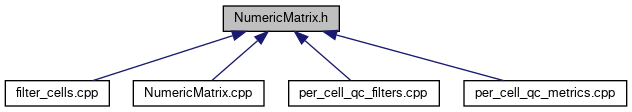
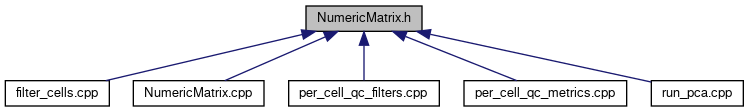
Deploying to gh-pages from @ jkanche/scran.js@d11298bfd3dacabcd8b2142fea2357774d24ed31 🚀

diff --git a/docs/wasm/run__pca_8cpp.html b/docs/wasm/run__pca_8cpp.html
@@ -1,0 +1,168 @@
+<!DOCTYPE html PUBLIC "-//W3C//DTD XHTML 1.0 Transitional//EN" "https://www.w3.org/TR/xhtml1/DTD/xhtml1-transitional.dtd">
+<html xmlns="http://www.w3.org/1999/xhtml">
+<head>
+<meta http-equiv="Content-Type" content="text/xhtml;charset=UTF-8"/>
+<meta http-equiv="X-UA-Compatible" content="IE=9"/>
+<meta name="generator" content="Doxygen 1.9.1"/>
+<meta name="viewport" content="width=device-width, initial-scale=1"/>
+<title>scran.js: run_pca.cpp File Reference</title>
+<link href="tabs.css" rel="stylesheet" type="text/css"/>
+<script type="text/javascript" src="jquery.js"></script>
+<script type="text/javascript" src="dynsections.js"></script>
+<link href="search/search.css" rel="stylesheet" type="text/css"/>
+<script type="text/javascript" src="search/searchdata.js"></script>
+<script type="text/javascript" src="search/search.js"></script>
+<link href="doxygen.css" rel="stylesheet" type="text/css" />
+<link href="doxygen-awesome.css" rel="stylesheet" type="text/css"/>
+</head>
+<body>
+<div id="top"><!-- do not remove this div, it is closed by doxygen! -->
+<div id="titlearea">
+<table cellspacing="0" cellpadding="0">
+ <tbody>
+ <tr style="height: 56px;">
+  <td id="projectalign" style="padding-left: 0.5em;">
+   <div id="projectname">scran.js
+   </div>
+   <div id="projectbrief">Compiling scran&#39;s C++ library to WebAssembly</div>
+  </td>
+ </tr>
+ </tbody>
+</table>
+</div>
+<!-- end header part -->
+<!-- Generated by Doxygen 1.9.1 -->
+<script type="text/javascript">
+/* @license magnet:?xt=urn:btih:cf05388f2679ee054f2beb29a391d25f4e673ac3&amp;dn=gpl-2.0.txt GPL-v2 */
+var searchBox = new SearchBox("searchBox", "search",false,'Search','.html');
+/* @license-end */
+</script>
+<script type="text/javascript" src="menudata.js"></script>
+<script type="text/javascript" src="menu.js"></script>
+<script type="text/javascript">
+/* @license magnet:?xt=urn:btih:cf05388f2679ee054f2beb29a391d25f4e673ac3&amp;dn=gpl-2.0.txt GPL-v2 */
+$(function() {
+  initMenu('',true,false,'search.php','Search');
+  $(document).ready(function() { init_search(); });
+});
+/* @license-end */</script>
+<div id="main-nav"></div>
+<!-- window showing the filter options -->
+<div id="MSearchSelectWindow"
+     onmouseover="return searchBox.OnSearchSelectShow()"
+     onmouseout="return searchBox.OnSearchSelectHide()"
+     onkeydown="return searchBox.OnSearchSelectKey(event)">
+</div>
+
+<!-- iframe showing the search results (closed by default) -->
+<div id="MSearchResultsWindow">
+<iframe src="javascript:void(0)" frameborder="0" 
+        name="MSearchResults" id="MSearchResults">
+</iframe>
+</div>
+
+</div><!-- top -->
+<div class="header">
+  <div class="summary">
+<a href="#func-members">Functions</a>  </div>
+  <div class="headertitle">
+<div class="title">run_pca.cpp File Reference</div>  </div>
+</div><!--header-->
+<div class="contents">
+<div class="textblock"><code>#include &lt;emscripten/bind.h&gt;</code><br />
+<code>#include &quot;<a class="el" href="NumericMatrix_8h_source.html">NumericMatrix.h</a>&quot;</code><br />
+<code>#include &quot;irlba/irlba.hpp&quot;</code><br />
+<code>#include &quot;tatami/stats/variances.hpp&quot;</code><br />
+<code>#include &quot;Eigen/Sparse&quot;</code><br />
+<code>#include &lt;vector&gt;</code><br />
+<code>#include &lt;cmath&gt;</code><br />
+</div><div class="textblock"><div class="dynheader">
+Include dependency graph for run_pca.cpp:</div>
+<div class="dyncontent">
+<div class="center"><img src="run__pca_8cpp__incl.png" border="0" usemap="#arun__pca_8cpp" alt=""/></div>
+<map name="arun__pca_8cpp" id="arun__pca_8cpp">
+<area shape="rect" title=" " alt="" coords="459,5,551,32"/>
+<area shape="rect" title=" " alt="" coords="5,80,129,107"/>
+<area shape="rect" href="NumericMatrix_8h.html" title=" " alt="" coords="153,80,269,107"/>
+<area shape="rect" title=" " alt="" coords="294,80,393,107"/>
+<area shape="rect" title=" " alt="" coords="417,80,592,107"/>
+<area shape="rect" title=" " alt="" coords="617,80,715,107"/>
+<area shape="rect" title=" " alt="" coords="739,80,798,107"/>
+<area shape="rect" title=" " alt="" coords="822,80,881,107"/>
+<area shape="rect" href="JSVector_8h.html" title=" " alt="" coords="107,155,193,181"/>
+<area shape="rect" title=" " alt="" coords="217,155,325,181"/>
+<area shape="rect" title=" " alt="" coords="117,229,183,256"/>
+</map>
+</div>
+</div><table class="memberdecls">
+<tr class="heading"><td colspan="2"><h2 class="groupheader"><a name="func-members"></a>
+Functions</h2></td></tr>
+<tr class="memitem:ab0d3c9409f62cec7e18cd573ed74087d"><td class="memItemLeft" align="right" valign="top">void&#160;</td><td class="memItemRight" valign="bottom"><a class="el" href="run__pca_8cpp.html#ab0d3c9409f62cec7e18cd573ed74087d">run_pca</a> (const <a class="el" href="structNumericMatrix.html">NumericMatrix</a> &amp;mat, int number, bool scale, uintptr_t pcs, uintptr_t prop_var)</td></tr>
+<tr class="separator:ab0d3c9409f62cec7e18cd573ed74087d"><td class="memSeparator" colspan="2">&#160;</td></tr>
+</table>
+<h2 class="groupheader">Function Documentation</h2>
+<a id="ab0d3c9409f62cec7e18cd573ed74087d"></a>
+<h2 class="memtitle"><span class="permalink"><a href="#ab0d3c9409f62cec7e18cd573ed74087d">&#9670;&nbsp;</a></span>run_pca()</h2>
+
+<div class="memitem">
+<div class="memproto">
+      <table class="memname">
+        <tr>
+          <td class="memname">void run_pca </td>
+          <td>(</td>
+          <td class="paramtype">const <a class="el" href="structNumericMatrix.html">NumericMatrix</a> &amp;&#160;</td>
+          <td class="paramname"><em>mat</em>, </td>
+        </tr>
+        <tr>
+          <td class="paramkey"></td>
+          <td></td>
+          <td class="paramtype">int&#160;</td>
+          <td class="paramname"><em>number</em>, </td>
+        </tr>
+        <tr>
+          <td class="paramkey"></td>
+          <td></td>
+          <td class="paramtype">bool&#160;</td>
+          <td class="paramname"><em>scale</em>, </td>
+        </tr>
+        <tr>
+          <td class="paramkey"></td>
+          <td></td>
+          <td class="paramtype">uintptr_t&#160;</td>
+          <td class="paramname"><em>pcs</em>, </td>
+        </tr>
+        <tr>
+          <td class="paramkey"></td>
+          <td></td>
+          <td class="paramtype">uintptr_t&#160;</td>
+          <td class="paramname"><em>prop_var</em>&#160;</td>
+        </tr>
+        <tr>
+          <td></td>
+          <td>)</td>
+          <td></td><td></td>
+        </tr>
+      </table>
+</div><div class="memdoc">
+<p>Perform a principal components analysis to obtain per-cell coordinates in low-dimensional space.</p>
+<dl class="params"><dt>Parameters</dt><dd>
+  <table class="params">
+    <tr><td class="paramname">mat</td><td>The input log-expression matrix, with features in rows and cells in columns. </td></tr>
+    <tr><td class="paramname">number</td><td>Number of PCs to obtain. Must be less than the smaller dimension of <code>mat</code>. </td></tr>
+    <tr><td class="paramname">scale</td><td>Whether to standardize rows in <code>mat</code> to unit variance. If <code>true</code>, all rows in <code>mat</code> are assumed to have non-zero variance. </td></tr>
+    <tr><td class="paramname">pcs</td><td>Offset to an output array of <code>double</code>s of length <code>number * mat.ncol()</code>. </td></tr>
+    <tr><td class="paramname">prop_var</td><td>Offset to an output array of <code>double</code>s of length <code>number</code>.</td></tr>
+  </table>
+  </dd>
+</dl>
+<dl class="section return"><dt>Returns</dt><dd><code>pcs</code> is filled with the PC coordinates in a column-major manner. <code>prop_var</code> is filled with the percentage of variance explained by each successive PC. </dd></dl>
+
+</div>
+</div>
+</div><!-- contents -->
+<!-- start footer part -->
+<hr class="footer"/><address class="footer"><small>
+Generated by&#160;<a href="https://www.doxygen.org/index.html"><img class="footer" src="doxygen.svg" width="104" height="31" alt="doxygen"/></a> 1.9.1
+</small></address>
+</body>
+</html>

diff --git a/docs/wasm/files.html b/docs/wasm/files.html
@@ -75,7 +75,8 @@ $(function() {
 <tr id="row_3_"><td class="entry"><span style="width:16px;display:inline-block;">&#160;</span><a href="NumericMatrix_8h_source.html"><span class="icondoc"></span></a><a class="el" href="NumericMatrix_8h.html" target="_self">NumericMatrix.h</a></td><td class="desc"></td></tr>
 <tr id="row_4_" class="even"><td class="entry"><span style="width:16px;display:inline-block;">&#160;</span><span class="icondoc"></span><a class="el" href="per__cell__qc__filters_8cpp.html" target="_self">per_cell_qc_filters.cpp</a></td><td class="desc"></td></tr>
 <tr id="row_5_"><td class="entry"><span style="width:16px;display:inline-block;">&#160;</span><span class="icondoc"></span><a class="el" href="per__cell__qc__metrics_8cpp.html" target="_self">per_cell_qc_metrics.cpp</a></td><td class="desc"></td></tr>
-<tr id="row_6_" class="even"><td class="entry"><span style="width:16px;display:inline-block;">&#160;</span><a href="utils_8h_source.html"><span class="icondoc"></span></a><a class="el" href="utils_8h.html" target="_self">utils.h</a></td><td class="desc"></td></tr>
+<tr id="row_6_" class="even"><td class="entry"><span style="width:16px;display:inline-block;">&#160;</span><span class="icondoc"></span><a class="el" href="run__pca_8cpp.html" target="_self">run_pca.cpp</a></td><td class="desc"></td></tr>
+<tr id="row_7_"><td class="entry"><span style="width:16px;display:inline-block;">&#160;</span><a href="utils_8h_source.html"><span class="icondoc"></span></a><a class="el" href="utils_8h.html" target="_self">utils.h</a></td><td class="desc"></td></tr>
 </table>
 </div><!-- directory -->
 </div><!-- contents -->

diff --git a/docs/wasm/search/functions_6.js b/docs/wasm/search/functions_6.js
@@ -1,6 +1,6 @@
 var searchData=
 [
-  ['ncol_41',['ncol',['../structNumericMatrix.html#ad21bf001b87002dcb346d9fcdd4e8a60',1,'NumericMatrix']]],
-  ['nrow_42',['nrow',['../structNumericMatrix.html#aca9949603c5969178a3d43eb1a352f63',1,'NumericMatrix']]],
-  ['numericmatrix_43',['NumericMatrix',['../structNumericMatrix.html#a66a4590191812cc5aaadb1f226023b08',1,'NumericMatrix::NumericMatrix(const tatami::numeric_matrix *p)'],['../structNumericMatrix.html#a06927edd7002205d6f5385971b404d13',1,'NumericMatrix::NumericMatrix(std::shared_ptr&lt; const tatami::numeric_matrix &gt; p)'],['../structNumericMatrix.html#af316832630f2a6bd5bd815ffce78018c',1,'NumericMatrix::NumericMatrix(int nr, int nc, uintptr_t values)']]]
+  ['ncol_44',['ncol',['../structNumericMatrix.html#ad21bf001b87002dcb346d9fcdd4e8a60',1,'NumericMatrix']]],
+  ['nrow_45',['nrow',['../structNumericMatrix.html#aca9949603c5969178a3d43eb1a352f63',1,'NumericMatrix']]],
+  ['numericmatrix_46',['NumericMatrix',['../structNumericMatrix.html#a66a4590191812cc5aaadb1f226023b08',1,'NumericMatrix::NumericMatrix(const tatami::numeric_matrix *p)'],['../structNumericMatrix.html#a06927edd7002205d6f5385971b404d13',1,'NumericMatrix::NumericMatrix(std::shared_ptr&lt; const tatami::numeric_matrix &gt; p)'],['../structNumericMatrix.html#af316832630f2a6bd5bd815ffce78018c',1,'NumericMatrix::NumericMatrix(int nr, int nc, uintptr_t values)']]]
 ];

diff --git a/docs/wasm/JSVector_8h.html b/docs/wasm/JSVector_8h.html
@@ -84,12 +84,13 @@ This graph shows which files directly or indirectly include this file:</div>
 <div class="dyncontent">
 <div class="center"><img src="JSVector_8h__dep__incl.png" border="0" usemap="#aJSVector_8hdep" alt=""/></div>
 <map name="aJSVector_8hdep" id="aJSVector_8hdep">
-<area shape="rect" title=" " alt="" coords="98,5,185,32"/>
+<area shape="rect" title=" " alt="" coords="174,5,261,32"/>
 <area shape="rect" href="NumericMatrix_8cpp.html" title=" " alt="" coords="5,155,136,181"/>
-<area shape="rect" href="NumericMatrix_8h.html" title=" " alt="" coords="154,80,270,107"/>
+<area shape="rect" href="NumericMatrix_8h.html" title=" " alt="" coords="230,80,346,107"/>
 <area shape="rect" href="filter__cells_8cpp.html" title=" " alt="" coords="160,155,264,181"/>
 <area shape="rect" href="per__cell__qc__filters_8cpp.html" title=" " alt="" coords="289,155,439,181"/>
 <area shape="rect" href="per__cell__qc__metrics_8cpp.html" title=" " alt="" coords="464,155,627,181"/>
+<area shape="rect" href="run__pca_8cpp.html" title=" " alt="" coords="651,155,743,181"/>
 </map>
 </div>
 </div>

diff --git a/docs/wasm/NumericMatrix_8h.html b/docs/wasm/NumericMatrix_8h.html
@@ -87,11 +87,12 @@ This graph shows which files directly or indirectly include this file:</div>
 <div class="dyncontent">
 <div class="center"><img src="NumericMatrix_8h__dep__incl.png" border="0" usemap="#aNumericMatrix_8hdep" alt=""/></div>
 <map name="aNumericMatrix_8hdep" id="aNumericMatrix_8hdep">
-<area shape="rect" title=" " alt="" coords="223,5,339,32"/>
+<area shape="rect" title=" " alt="" coords="306,5,422,32"/>
 <area shape="rect" href="filter__cells_8cpp.html" title=" " alt="" coords="5,80,109,107"/>
 <area shape="rect" href="NumericMatrix_8cpp.html" title=" " alt="" coords="133,80,264,107"/>
 <area shape="rect" href="per__cell__qc__filters_8cpp.html" title=" " alt="" coords="289,80,439,107"/>
 <area shape="rect" href="per__cell__qc__metrics_8cpp.html" title=" " alt="" coords="464,80,627,107"/>
+<area shape="rect" href="run__pca_8cpp.html" title=" " alt="" coords="651,80,743,107"/>
 </map>
 </div>
 </div>

diff --git a/docs/wasm/search/functions_7.js b/docs/wasm/search/functions_7.js
@@ -1,5 +1,5 @@
 var searchData=
 [
-  ['per_5fcell_5fqc_5ffilters_44',['per_cell_qc_filters',['../per__cell__qc__filters_8cpp.html#a9b2c265d22a1bb9c2ed43fdfc737b92d',1,'per_cell_qc_filters.cpp']]],
-  ['per_5fcell_5fqc_5fmetrics_45',['per_cell_qc_metrics',['../per__cell__qc__metrics_8cpp.html#a41e250b8bea6e044ffedb689c0304d3e',1,'per_cell_qc_metrics.cpp']]]
+  ['per_5fcell_5fqc_5ffilters_47',['per_cell_qc_filters',['../per__cell__qc__filters_8cpp.html#a9b2c265d22a1bb9c2ed43fdfc737b92d',1,'per_cell_qc_filters.cpp']]],
+  ['per_5fcell_5fqc_5fmetrics_48',['per_cell_qc_metrics',['../per__cell__qc__metrics_8cpp.html#a41e250b8bea6e044ffedb689c0304d3e',1,'per_cell_qc_metrics.cpp']]]
 ];

diff --git a/docs/wasm/search/functions_1.js b/docs/wasm/search/functions_1.js
@@ -1,5 +1,5 @@
 var searchData=
 [
-  ['cast_5fvector_5fof_5fpointers_35',['cast_vector_of_pointers',['../utils_8h.html#aaf20a63dc6866a9961f9099feec5942c',1,'utils.h']]],
-  ['column_36',['column',['../structNumericMatrix.html#a6f0a43d05259f91bcbe5710ee8151922',1,'NumericMatrix']]]
+  ['cast_5fvector_5fof_5fpointers_38',['cast_vector_of_pointers',['../utils_8h.html#aaf20a63dc6866a9961f9099feec5942c',1,'utils.h']]],
+  ['column_39',['column',['../structNumericMatrix.html#a6f0a43d05259f91bcbe5710ee8151922',1,'NumericMatrix']]]
 ];

diff --git a/docs/wasm/search/files_3.js b/docs/wasm/search/files_3.js
@@ -1,5 +1,5 @@
 var searchData=
 [
-  ['per_5fcell_5fqc_5ffilters_2ecpp_30',['per_cell_qc_filters.cpp',['../per__cell__qc__filters_8cpp.html',1,'']]],
-  ['per_5fcell_5fqc_5fmetrics_2ecpp_31',['per_cell_qc_metrics.cpp',['../per__cell__qc__metrics_8cpp.html',1,'']]]
+  ['per_5fcell_5fqc_5ffilters_2ecpp_32',['per_cell_qc_filters.cpp',['../per__cell__qc__filters_8cpp.html',1,'']]],
+  ['per_5fcell_5fqc_5fmetrics_2ecpp_33',['per_cell_qc_metrics.cpp',['../per__cell__qc__metrics_8cpp.html',1,'']]]
 ];

diff --git a/docs/wasm/search/all_8.js b/docs/wasm/search/all_8.js
@@ -1,5 +1,7 @@
 var searchData=
 [
   ['readme_2emd_19',['README.md',['../README_8md.html',1,'']]],
-  ['row_20',['row',['../structNumericMatrix.html#a428afa5858a25c1c6b8861900e0dad7b',1,'NumericMatrix']]]
+  ['row_20',['row',['../structNumericMatrix.html#a428afa5858a25c1c6b8861900e0dad7b',1,'NumericMatrix']]],
+  ['run_5fpca_21',['run_pca',['../run__pca_8cpp.html#ab0d3c9409f62cec7e18cd573ed74087d',1,'run_pca.cpp']]],
+  ['run_5fpca_2ecpp_22',['run_pca.cpp',['../run__pca_8cpp.html',1,'']]]
 ];

diff --git a/docs/wasm/search/files_2.js b/docs/wasm/search/files_2.js
@@ -1,5 +1,5 @@
 var searchData=
 [
-  ['numericmatrix_2ecpp_28',['NumericMatrix.cpp',['../NumericMatrix_8cpp.html',1,'']]],
-  ['numericmatrix_2eh_29',['NumericMatrix.h',['../NumericMatrix_8h.html',1,'']]]
+  ['numericmatrix_2ecpp_30',['NumericMatrix.cpp',['../NumericMatrix_8cpp.html',1,'']]],
+  ['numericmatrix_2eh_31',['NumericMatrix.h',['../NumericMatrix_8h.html',1,'']]]
 ];

diff --git a/docs/wasm/globals.html b/docs/wasm/globals.html
@@ -76,6 +76,9 @@ $(function() {
 <li>per_cell_qc_metrics()
 : <a class="el" href="per__cell__qc__metrics_8cpp.html#a41e250b8bea6e044ffedb689c0304d3e">per_cell_qc_metrics.cpp</a>
 </li>
+<li>run_pca()
+: <a class="el" href="run__pca_8cpp.html#ab0d3c9409f62cec7e18cd573ed74087d">run_pca.cpp</a>
+</li>
 </ul>
 </div><!-- contents -->
 <!-- start footer part -->

diff --git a/docs/wasm/globals_func.html b/docs/wasm/globals_func.html
@@ -76,6 +76,9 @@ $(function() {
 <li>per_cell_qc_metrics()
 : <a class="el" href="per__cell__qc__metrics_8cpp.html#a41e250b8bea6e044ffedb689c0304d3e">per_cell_qc_metrics.cpp</a>
 </li>
+<li>run_pca()
+: <a class="el" href="run__pca_8cpp.html#ab0d3c9409f62cec7e18cd573ed74087d">run_pca.cpp</a>
+</li>
 </ul>
 </div><!-- contents -->
 <!-- start footer part -->
